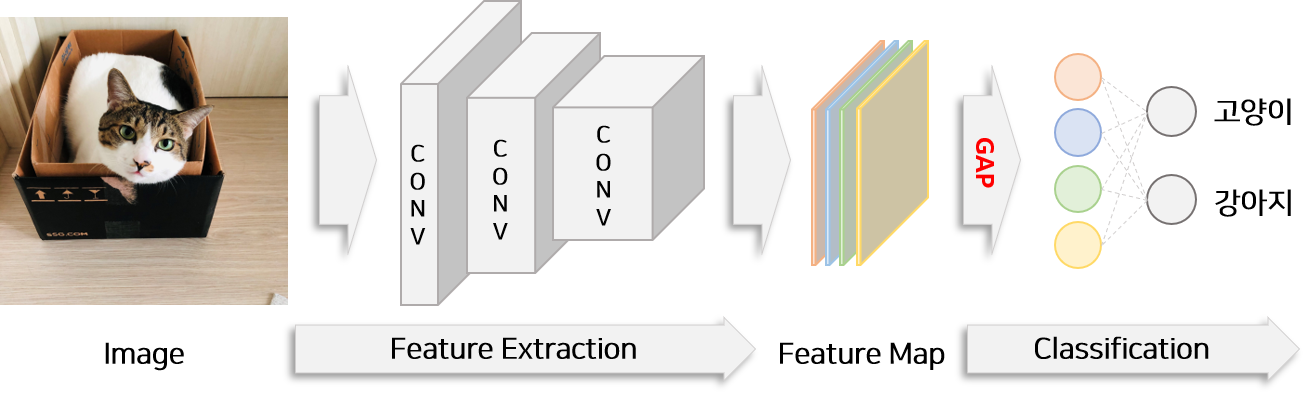
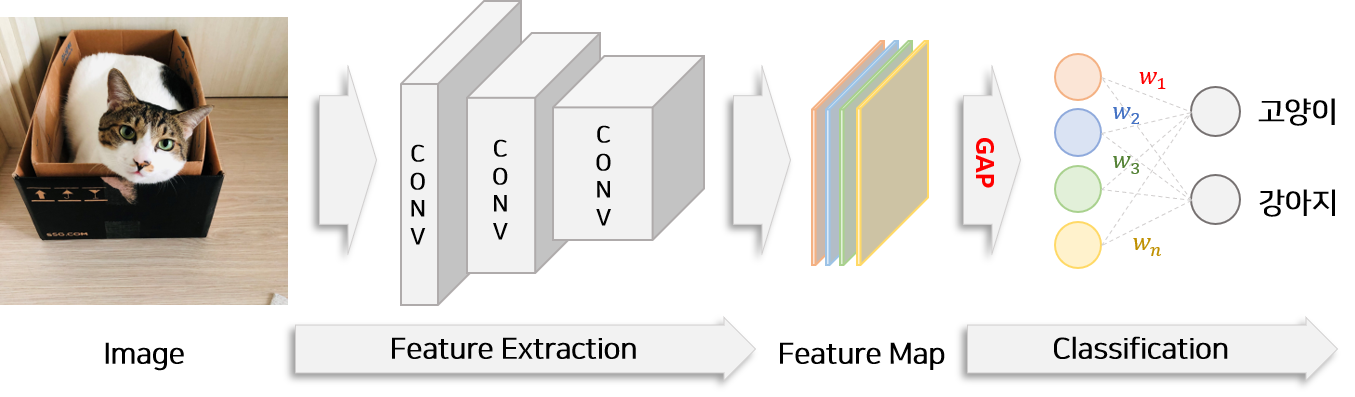
'commit'

diff --git a/_posts/2020/2020-09-29-paper-review.md b/_posts/2020/2020-09-29-paper-review.md
@@ -16,7 +16,7 @@ tags:
 그 이유는 CNN이 이미지의 **지역적 특징**을 잘 포착하기 때문입니다.
 
 ![](/img/in-post/2020/2020-09-29/cam_example.png)
-<center>이미지에서 지역적 특징 시각화 예시(Feat. 고양이 줄리)</center>
+<center>이미지에서 객체 추출(Feat. 고양이 줄리)</center>
 
 오늘 포스팅은 CNN을 이용하여 지역적 특징을 잘 포착하는지 여부에 대해 **해석(시각화)이 가능한 방법** 를 제시한 논문을 리뷰하도록 하겠습니다.
 이 글은 [Learning Deep Features for Discriminative Localization 논문](https://arxiv.org/abs/1512.04150) [MEDIUM 글](https://towardsdatascience.com/learning-deep-features-for-discriminative-localization-class-activation-mapping-2a653572be7f?gi=f6a5717f2f12) 을 참고하여 정리하였음을 먼저 밝힙니다.
@@ -26,9 +26,9 @@ tags:
 #### Short Summary
 이 논문의 큰 특징 3가지는 아래와 같습니다.
 
-1. **Global Average Pooling layer**를 적용하여 <u>객체의 위치를 추출(Localization Ability)</u> 할 수 있는 구조를 제시합니다.
-2. <u>객체의 위치를 포착하는 방법</u> **Class Activation Mapping(CAM)** 을 제시합니다.
-3. 객체 위치정보 없이 <u>카테고리 정보<u/>만으로 좋은 **위치 추출 평가점수**를 획득하였습니다.
+1. **Global Average Pooling layer(GAP)**를 적용하여 <u>해석(시각화)가 가능한 구조</u>를 제시합니다.
+2. <u>객체의 위치를 추출하는 방법</u>인 **Class Activation Mapping(CAM)** 을 제시합니다.
+3. 객체의 위치정보 없이 <u>카테고리 정보<u/>만을 학습한 후 객체 위치를 추출하여 **Localization Test**에서 좋은 평가점수를 획득하였습니다.
 
 ## 모델 구조
 
@@ -49,7 +49,53 @@ Feature Extraction 단계에서 추출한 Feature Map은 <u>여러층의 FC Laye
 
 카테고리 정보만을 학습하여 모델이 객체의 위치 추출 능력을 갖추기 위하여 본 논문에서는 Flatten 단계에서 Global Average Pooling(GAP) 방법을 사용해야 한다고 주장합니다.
 또한 Fully Connected Layer의 수를 줄이고 마지막 Classification Layer 하나만을 이용하여 모델을 구성합니다.
-위 구조에서는 
+위 구조에서는 Global Average Pooling을 이용하여 각 Feature Map($f_k(x,y)$)의 가로 세로 값을 평균하여 특징변수($F_k) k개를 생성합니다.
+예를들어 위 그림에서는 총 4개의 Feature Map이 존재하므로 총 4개의 특징변수가 생성됩니다.
+
+<center>$\sum_{x,y} f_k(x,y) = F_k$</center>
+<center>$S_c=\sum_k w_k^c F_k$</center>
+<center>$P_c=\frac{exp(S_c)}{\sum_c exp(S_c)}$</center>
+$f_k(x,y)$ : Feature Map k의 가로(x), 세로(y)에 해당하는 값  
+$F_k$ : 특징변수 k  
+$k$ : Feature Map의 index  
+$x, y$ : Featrue Map의 가로, 세로 위치  
+$w_k^c$ 특징변수 k가 클래스 c에 기여하는 Weight  
+
+이 특징변수($F_k$)와 FC Layer의 Weight($w_k^c$)를 곱하여 더하면 각 클래스의 점수($S_c$)를 계산할 수 있습니다.
+각 특징변수에 곱해진 Weight는 각 Feature Map이 해당 클래스에 얼마나 기여하는 지를 나타냅니다.
+마지막으로 클래스 점수에 SoftMax 함수를 취하면 각 클래스로 분류될 확률($P_c$)을 계산할 수 있습니다.
+
+#### Class Activation Mapping(CAM)
+위 식을 응용하면 각 클래스 분류될 확률에 영향을 미친 객체의 위치 위치(x,y)를 추출할 수 있습니다.
+
+<center>$S_c=\sum_k w_k^c F_k$</center>
+<center>$S_c=\sum_k w_k^c \sum_{x,y} f_k(x,y)$</center>
+<center>$S_c=\sum_k w_k^c \sum_{x,y} f_k(x,y)$</center>
+<center>$S_c=\sum_{x,y} \sum_k w_k^c f_k(x,y)$</center>
+
+
+
+
+
+
+식을 이용하여 표현하면 위의 내용과 동일합니다.
+
+
+
+
+
+
+
+  
+
+
+
+#### Global Average Pooling
+<center>$S_c &=& \sum_k w_k^c F_k$</center>
+<center>$&=& \sum_k w_c^k \sum_{x, y}f_k(x,y)$</center>
+<center>$&=& \sum_{x, y} \sum_k w_k^c f_k(x,y)$</center>
+ 
+ 
   
 
 
